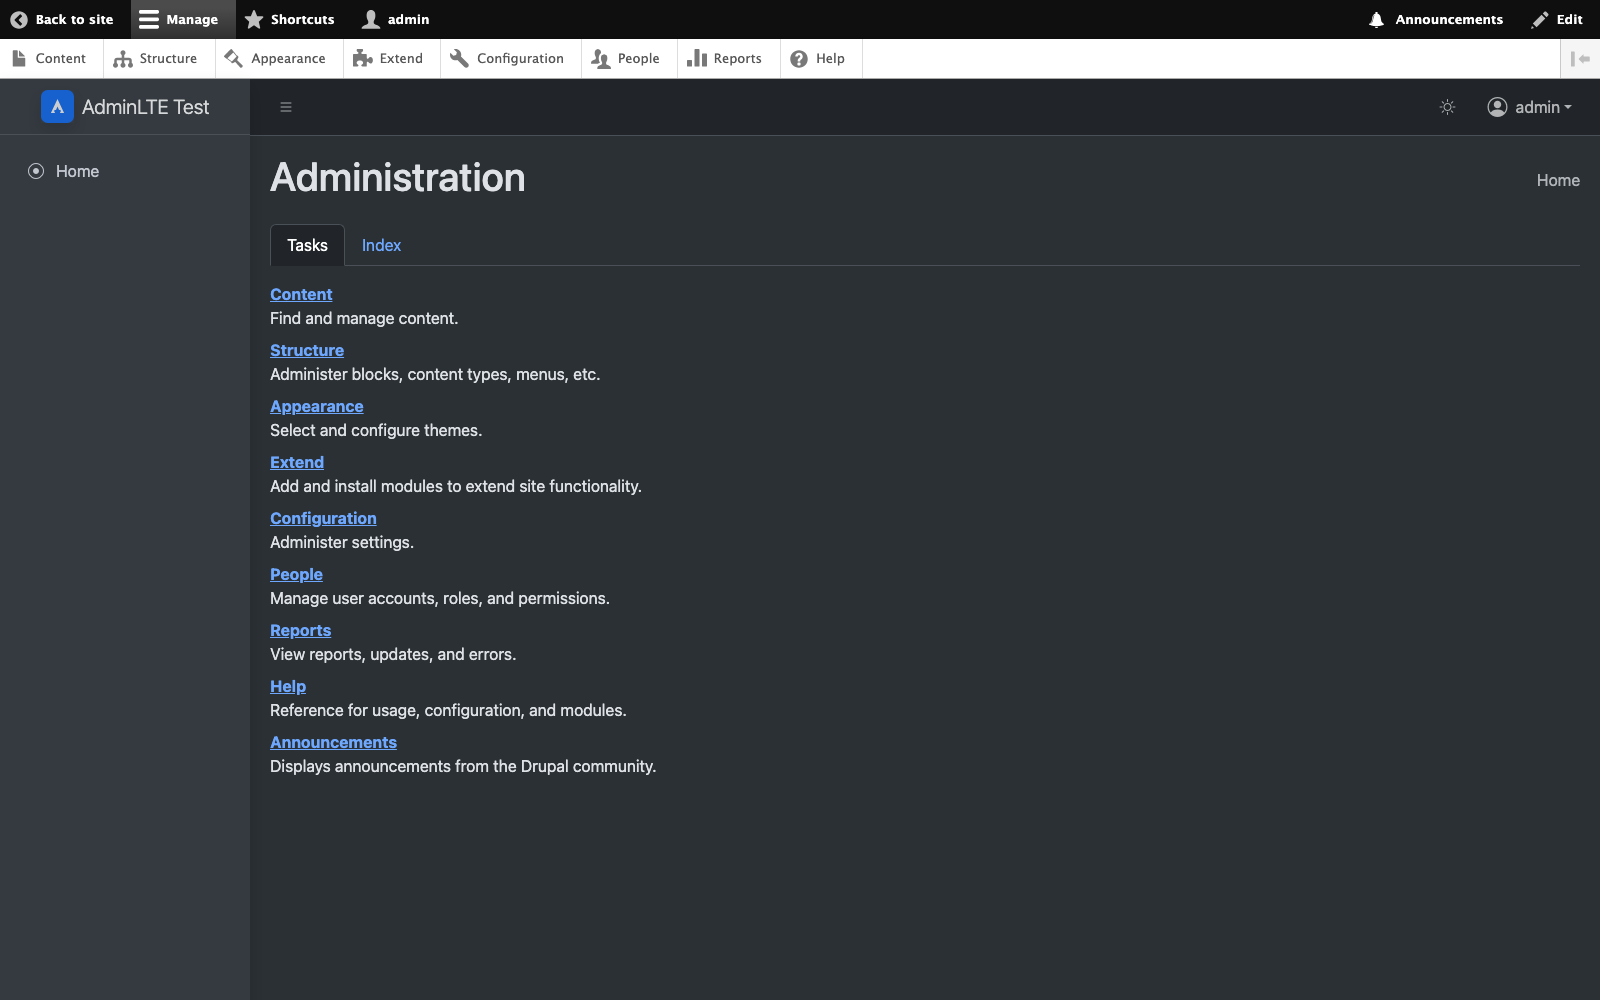
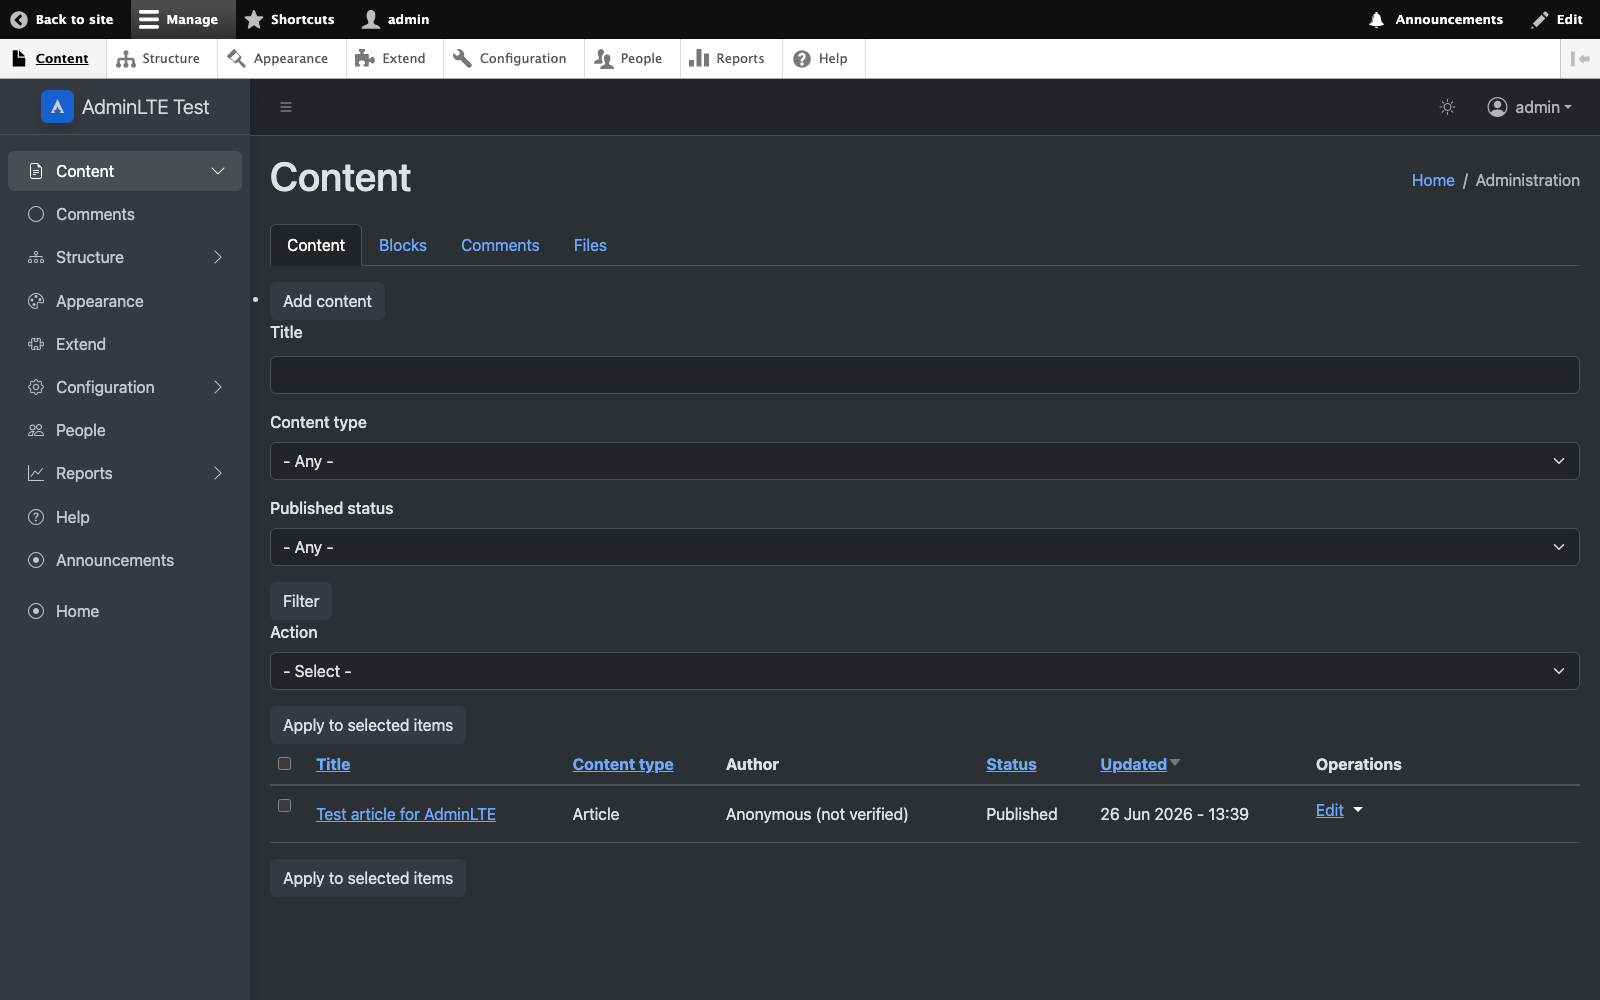
Show the Administration menu in the sidebar as a treeview
A fresh site's sidebar only showed the Main navigation menu (just 'Home'), which
wastes the AdminLTE sidebar. Surface Drupal's Administration menu there as a
proper collapsible treeview with per-section icons (Content, Structure,
Appearance, Extend, Configuration, People, Reports, Help). Main navigation still
renders below it.

- block.block.adminlte_admin: default placement of system_menu_block:admin in the
  sidebar (level 1, depth 3, expand_all). Verified via theme uninstall/reinstall.
- menu--admin.html.twig + adminlte_preprocess_menu__admin(): treeview markup,
  section icons, and unwrapping of the redundant 'Administration' root.
- adminlteSidebarActive JS behavior: marks the current page's link active and
  auto-expands its section by longest matching path (robust where the admin
  menu's server-side active trail isn't populated for the block).
- Refresh screenshots (sidebar.png added); verified on Drupal 11.3, light + dark,
  0 errors/0 warnings.

diff --git a/js/adminlte-drupal.js b/js/adminlte-drupal.js
@@ -50,4 +50,58 @@
       );
     },
   };
+
+  /**
+   * Marks the current page's sidebar link active and opens its section.
+   *
+   * The link is resolved client-side by longest matching path. This is robust
+   * across menus (the Administration menu's server-side active trail is not
+   * always populated for the active block) and gives AdminLTE's own `active` /
+   * `menu-open` classes so the treeview reflects where you are.
+   */
+  Drupal.behaviors.adminlteSidebarActive = {
+    attach(context) {
+      const current = window.location.pathname.replace(/\/+$/, '') || '/';
+      once('adminlte-sidebar-active', '.app-sidebar .sidebar-menu', context).forEach(
+        (menu) => {
+          let best = null;
+          let bestLen = -1;
+          menu.querySelectorAll('a.nav-link[href]').forEach((link) => {
+            const href = link.getAttribute('href');
+            if (!href || href === '#') {
+              return;
+            }
+            let path;
+            try {
+              path =
+                new URL(href, window.location.origin).pathname.replace(/\/+$/, '') ||
+                '/';
+            } catch {
+              return;
+            }
+            const matches =
+              current === path || (path !== '/' && current.startsWith(`${path}/`));
+            if (matches && path.length > bestLen) {
+              best = link;
+              bestLen = path.length;
+            }
+          });
+
+          if (!best) {
+            return;
+          }
+          best.classList.add('active');
+
+          // Open every ancestor treeview section so the active item is visible.
+          let item = best.closest('.nav-item');
+          while (item && menu.contains(item)) {
+            if (item.querySelector(':scope > .nav-treeview')) {
+              item.classList.add('menu-open');
+            }
+            item = item.parentElement ? item.parentElement.closest('.nav-item') : null;
+          }
+        },
+      );
+    },
+  };
 })(Drupal, once);

diff --git a/CHANGELOG.md b/CHANGELOG.md
@@ -26,8 +26,17 @@ this project adheres to [Semantic Versioning](https://semver.org/spec/v2.0.0.htm
 
 ### Changed
 
+- The sidebar now surfaces Drupal's **Administration menu** as a collapsible
+  AdminLTE treeview (Content, Structure, Appearance, Extend, Configuration,
+  People, Reports, Help) with per-section icons, shipped as a default block
+  placement (`adminlte_admin`). The active section is highlighted and
+  auto-expanded — resolved client-side by longest matching path, which is robust
+  across menus. The "Main navigation" menu still renders below it. New
+  `menu--admin.html.twig` + `adminlte_preprocess_menu__admin()` (which also
+  unwraps the redundant "Administration" root), and an `adminlteSidebarActive`
+  JS behavior.
 - The navbar account menu is now a proper AdminLTE **user dropdown** (avatar/icon
-  + username, with a header and icon-prefixed "My account" / "Log out" items)
+  with username, plus a header and icon-prefixed "My account" / "Log out" items)
   instead of a bare bulleted list. Anonymous users see an inline "Log in" link.
   New `menu--account.html.twig`, `block--adminlte-account-menu.html.twig`, and
   `adminlte_preprocess_menu__account()`; the colour-mode toggle moves left of it.

diff --git a/README.md b/README.md
@@ -100,8 +100,10 @@ Verified against a clean **Drupal 11.3.13** install (standard profile, PHP 8.5):
 - All core admin screens (dashboard, content, structure, modules, people, reports,
   appearance, node add/edit) render with the AdminLTE shell and return HTTP 200.
 - No errors or warnings in the Drupal log after a full browse.
-- Page title, breadcrumb, sidebar menu, admin tabs, local actions, status messages
-  and the site-branding sidebar brand all render correctly.
+- The **sidebar** shows the Administration menu as a collapsible treeview with
+  per-section icons; the active section is highlighted and auto-expanded.
+- Page title, breadcrumb, admin tabs, local actions, status messages, the
+  navbar user dropdown and the site-branding sidebar brand all render correctly.
 - Light and dark colour modes, the navbar mode toggle, and coexistence with the
   Drupal admin **toolbar** (using `--drupal-displace-offset-top`) all work.
 
